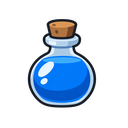
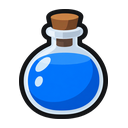
Match new item art to original style and enlarge equipped weapons

diff --git a/tools/art/build_fantasy_items_v2.py b/tools/art/build_fantasy_items_v2.py
@@ -6,19 +6,54 @@ ROOT = Path(__file__).resolve().parents[2]
 SOURCE = ROOT / 'art/sources/fantasy_items_v2'
 OUT = ROOT / 'assets/fantasy_pawns_v1/items'
 
+def transparent_source(image, entry):
+    image = image.convert('RGBA')
+    if image.getchannel('A').getextrema() == (0, 255):
+        return image
+    # Some reference edits bake a checkerboard despite requesting alpha.
+    # User-authorized background removal: retain the closed dark silhouette;
+    # explicitly remove only seeded enclosed background holes, never gray steel.
+    import numpy as np
+    from scipy import ndimage as ndi
+    rgb = np.asarray(image.convert('RGB'))
+    outline = rgb.max(axis=2) < entry.get('outline_threshold', 80)
+    filled = ndi.binary_fill_holes(outline)
+    labels, _ = ndi.label(filled)
+    counts = np.bincount(labels.ravel()); counts[0] = 0
+    mask = labels == counts.argmax()
+    for x, y in entry.get('hole_seeds', []):
+        assert not outline[y, x], 'Hole seed landed on item outline'
+        seed = np.zeros(mask.shape, dtype=bool); seed[y, x] = True
+        hole = ndi.binary_propagation(seed, mask=~outline)
+        assert not hole[0].any() and not hole[-1].any(), 'Hole escaped outline'
+        mask &= ~hole
+    rgba = np.dstack([rgb, mask.astype('uint8')*255])
+    rgba[~mask, :3] = 0
+    return Image.fromarray(rgba)
+
+
 def main():
     manifest = json.loads((SOURCE / 'manifest.json').read_text())
-    preview = Image.new('RGB', (480, 180), '#303941')
+    preview = Image.new('RGB', (480, 220), '#303941')
     draw = ImageDraw.Draw(preview)
+    draw.text((8, 5), 'EXISTING STYLE REFERENCES', fill='#eee6d5')
+    for index, name in enumerate(['bow', 'axe', 'sword', 'staff', 'potion', 'potion']):
+        reference = Image.open(OUT / (name+'.png')).convert('RGBA').resize((64, 64), Image.Resampling.LANCZOS)
+        preview.paste(reference, (index*80+8, 23), reference)
+        draw.text((index*80+3, 88), name, fill='#eee6d5')
+    draw.text((8, 111), 'REDRAWN ITEMS', fill='#eee6d5')
     for index, entry in enumerate(manifest['items']):
-        image = Image.open(SOURCE / entry['file']).convert('RGBA')
+        image = transparent_source(Image.open(SOURCE / entry['file']), entry)
         assert image.getchannel('A').getextrema() == (0, 255), 'Expected real transparency'
-        image = image.crop(image.getbbox())
+        # Ignore near-invisible alpha specks when centering/scaling the silhouette.
+        bounds = image.getchannel('A').point(lambda a: 255 if a >= 32 else 0).getbbox()
+        assert bounds is not None
+        image = image.crop(bounds)
         image.thumbnail((110, 110), Image.Resampling.LANCZOS)
         canvas = Image.new('RGBA', (128, 128))
         canvas.alpha_composite(image, ((128-image.width)//2, (128-image.height)//2))
         canvas.save(OUT / (entry['id']+'.png'))
-        x, y = (index % 6) * 80, (index // 6) * 90
+        x, y = (index % 6) * 80, 130 + (index // 6) * 90
         small = canvas.resize((64, 64), Image.Resampling.LANCZOS)
         preview.paste(small, (x+8, y), small)
         draw.text((x+3, y+65), entry['id'], fill='#eee6d5')

diff --git a/docs/art/fantasy-items-v2/README.md b/docs/art/fantasy-items-v2/README.md
@@ -14,3 +14,15 @@
 ## 휴식
 
 자동 휴식 안내는 `휴식 중 · HP 현재/최대 · MP 현재/최대`로 표시한다. 내부 경과 시간은 안내에 노출하지 않는다. 회복과 시간 진행 규칙은 그대로다.
+
+## 그림체 재작업 및 장착 크기
+
+- 추가 6종을 기존 아이템 이미지를 참조해 다시 제작했다. 석궁의 복잡한 부품, 무기의 세부 금속 면과 나뭇결을 줄이고 기존의 굵은 검은 선·밝은 회색 금속·갈색 나무에 맞췄다.
+- 철퇴는 도끼와 구별되는 둥근 가시 머리로, 파랑·초록 물약은 기존 빨간 물약과 같은 둥근 병 형태로 교체했다.
+- [icons.png](icons.png)의 윗줄은 기존 기준 이미지, 아랫줄은 재작업 결과다.
+- 무기 표시 폭을 캐릭터 영역의 0.30에서 0.48로 늘렸다(정사각형 무기 캔버스 기준 1.6배). 위치를 조정해 얼굴을 가리지 않도록 했다. 방패 크기는 유지한다.
+- [장착 크기 비교](equipped-scale.png): 같은 최종 아이템을 사용해 위는 이전 크기, 아래는 새 크기를 실제 Godot 그리기로 비교한다. 각 무기 아래 작은 캐릭터는 실제 40px 캔버스다.
+- 재현: `godot --display-driver x11 --path . --script tools/art/review_equipped_weapon_scale.gd` → `/tmp/weapon-size-review.png`.
+- 캐릭터 다리 목업은 아직 적용하지 않았다.
+
+검증 완료: `fantasy_item_expansion_acceptance.gd` PASS, Godot 리소스 가져오기 성공, 6종 모두 128×128 RGBA 및 투명 모서리·동일한 110px 내외 실루엣 높이 확인. 실제 장착 비교 캡처에서 얼굴 가림 없이 무기가 확대됨을 확인했다.

diff --git a/art/sources/fantasy_items_v2/README.md b/art/sources/fantasy_items_v2/README.md
@@ -1,6 +1,8 @@
 # 추가 아이템 원본
 
-내장 `image_gen`으로 생성한 석궁, 철퇴, 창, 곤봉, 파랑/초록 물약 6종이다. 정확한 프롬프트 템플릿과 개별 subject는 [manifest.json](manifest.json)에 있다. 실제 알파 배경을 검증한 뒤 내용 변경 없이 잘라내기·축소·중앙 정렬했다.
+기존 아이템 이미지를 직접 참조해 내장 `image_gen`으로 다시 그린 석궁, 철퇴, 창, 곤봉, 파랑/초록 물약 6종이다. 각 이미지의 정확한 최종 프롬프트는 [manifest.json](manifest.json)에 있다. 검·도끼·활의 굵은 검은 외곽선과 단순한 명암에 맞췄고, 물약은 기존 빨간 병의 둥근 모양을 따른다.
+
+RGBA 원본은 알파를 유지한다. 석궁·철퇴에는 생성 도구가 체크무늬 배경을 그렸으므로, 사용자에게 승인받은 코드 배경 제거 방식으로 닫힌 외곽선 안을 보존했다. 석궁의 내부 빈 공간 세 곳만 명시한 좌표로 제거한다. 32 미만의 옅은 알파 잡음은 크기·중심 계산에서 제외하며 실제 채색을 다시 그리지는 않는다.
 
 - 런타임: `assets/fantasy_pawns_v1/items/`
 - 재생성: `python3 tools/art/build_fantasy_items_v2.py`
